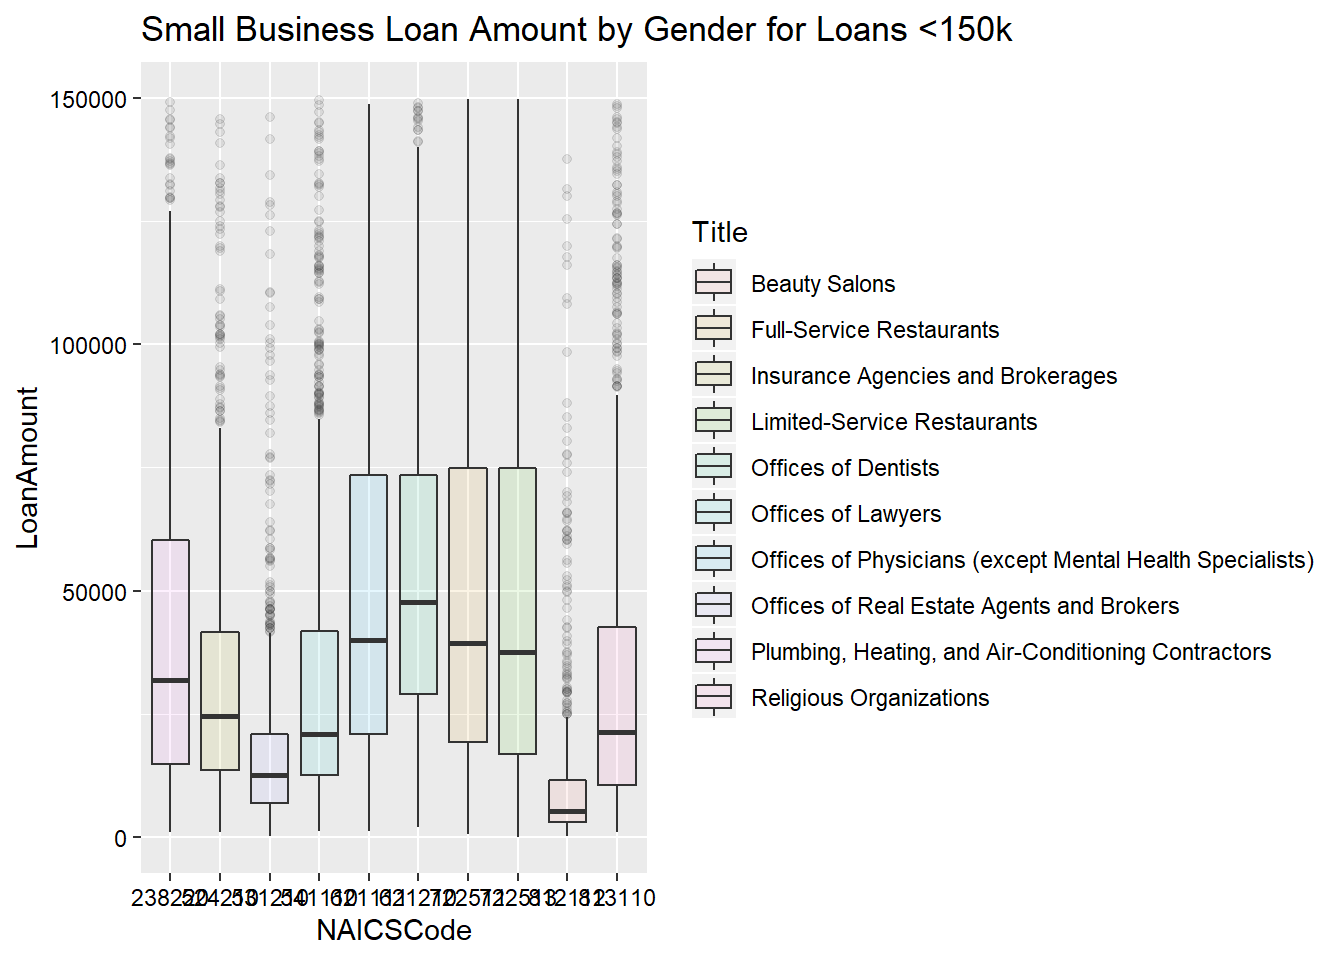
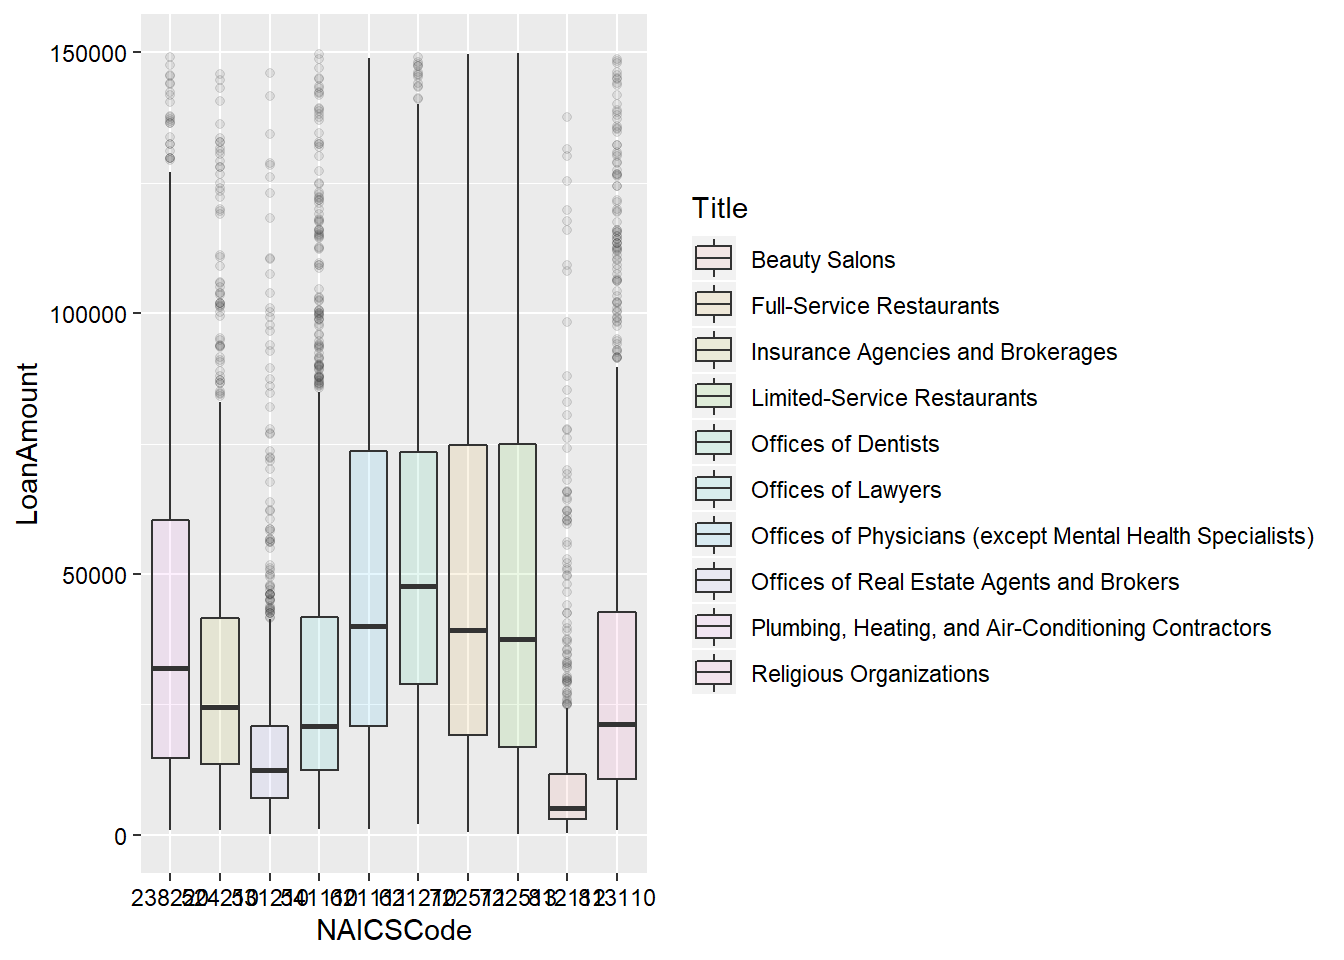
layla commit

diff --git a/docs/layla_file.html b/docs/layla_file.html
@@ -504,16 +504,16 @@ This reproducible <a href="http://rmarkdown.rstudio.com">R Markdown</a> analysis
 <div class="panel panel-default">
 <div class="panel-heading">
 <p class="panel-title">
-<a data-toggle="collapse" data-parent="#workflowr-checks" href="#strongRepositoryversionstrongahrefhttpsgithubcomhugheylabcodingsprinttree3f72bf6ce2a0150f29be0b434350445418727337targetblank3f72bf6a"> <span class="glyphicon glyphicon-ok text-success" aria-hidden="true"></span> <strong>Repository version:</strong> <a href="https://github.com/hugheylab/coding_sprint/tree/3f72bf6ce2a0150f29be0b434350445418727337" target="_blank">3f72bf6</a> </a>
+<a data-toggle="collapse" data-parent="#workflowr-checks" href="#strongRepositoryversionstrongahrefhttpsgithubcomhugheylabcodingsprinttree3fbf6541b7f9f4051e5e55187d5f494db42fde04targetblank3fbf654a"> <span class="glyphicon glyphicon-ok text-success" aria-hidden="true"></span> <strong>Repository version:</strong> <a href="https://github.com/hugheylab/coding_sprint/tree/3fbf6541b7f9f4051e5e55187d5f494db42fde04" target="_blank">3fbf654</a> </a>
 </p>
 </div>
[2 lines of base64/hex data omitted]
 <div class="panel-body">
 <p>
 Great! You are using Git for version control. Tracking code development and connecting the code version to the results is critical for reproducibility.
 </p>
 <p>
-The results in this page were generated with repository version <a href="https://github.com/hugheylab/coding_sprint/tree/3f72bf6ce2a0150f29be0b434350445418727337" target="_blank">3f72bf6</a>. See the <em>Past versions</em> tab to see a history of the changes made to the R Markdown and HTML files.
+The results in this page were generated with repository version <a href="https://github.com/hugheylab/coding_sprint/tree/3fbf6541b7f9f4051e5e55187d5f494db42fde04" target="_blank">3fbf654</a>. See the <em>Past versions</em> tab to see a history of the changes made to the R Markdown and HTML files.
 </p>
 <p>
 Note that you need to be careful to ensure that all relevant files for the analysis have been committed to Git prior to generating the results (you can use <code>wflow_publish</code> or <code>wflow_git_commit</code>). workflowr only checks the R Markdown file, but you know if there are other scripts or data files that it depends on. Below is the status of the Git repository when the results were generated:
@@ -521,7 +521,6 @@ Note that you need to be careful to ensure that all relevant files for the analy
 <pre><code>
 Ignored files:
     Ignored:    .Rproj.user/
-    Ignored:    analysis/figure/
     Ignored:    data/foia_150k_plus.csv
 
 Unstaged changes:
@@ -564,6 +563,40 @@ Message
 </tr>
 </thead>
 <tbody>
+<tr>
+<td>
+Rmd
+</td>
+<td>
+<a href="https://github.com/hugheylab/coding_sprint/blob/72fe9f035a6f7b14cae184d95a46369df9721b16/analysis/layla_file.Rmd" target="_blank">72fe9f0</a>
+</td>
+<td>
+arefnel
+</td>
+<td>
+2020-07-14
+</td>
+<td>
+laylas commit
+</td>
+</tr>
+<tr>
+<td>
+html
+</td>
+<td>
+<a href="https://rawcdn.githack.com/hugheylab/coding_sprint/72fe9f035a6f7b14cae184d95a46369df9721b16/docs/layla_file.html" target="_blank">72fe9f0</a>
+</td>
+<td>
+arefnel
+</td>
+<td>
+2020-07-14
+</td>
+<td>
+laylas commit
+</td>
+</tr>
 <tr>
 <td>
 Rmd
@@ -624,9 +657,9 @@ ky_f1 = ky[NAICSCode %in% top_biz]
 ky_f1 = merge(ky_f1, code_map, by.x=&#39;NAICSCode&#39;, by.y=&#39;Code&#39;, all.x = T)
 ky_f1 = ky_f1[, NAICSCode := as.character(NAICSCode)]
 
-ggplot(ky_f1, aes(x = NAICSCode, y = LoanAmount, fill = Title)) + geom_boxplot(alpha = 0.1) + theme(axis.text = element_text(color = &#39;black&#39;)) + labs(title = &#39;Small Business Loan Amount by Gender for Loans &lt;150k&#39;)</code></pre>
+ggplot(ky_f1, aes(x = NAICSCode, y = LoanAmount, fill = Title)) + geom_boxplot(alpha = 0.1) + theme(axis.text = element_text(color = &#39;black&#39;)) </code></pre>
 <p><img src="figure/layla_file.Rmd/unnamed-chunk-4-1.png" width="672" style="display: block; margin: auto;" /></p>
-<pre class="r"><code>ggplot(ky_f1, aes(x = NAICSCode, y = JobsRetained, fill = Title)) + geom_boxplot(alpha = 0.1) + theme(axis.text = element_text(color = &#39;black&#39;)) + labs(title = &#39;Small Business Loan Amount by Gender for Loans &lt;150k&#39;)</code></pre>
+<pre class="r"><code>ggplot(ky_f1, aes(x = NAICSCode, y = JobsRetained, fill = Title)) + geom_boxplot(alpha = 0.1) + theme(axis.text = element_text(color = &#39;black&#39;)) </code></pre>
 <pre><code>Warning: Removed 431 rows containing non-finite values (stat_boxplot).</code></pre>
 <p><img src="figure/layla_file.Rmd/unnamed-chunk-5-1.png" width="672" style="display: block; margin: auto;" /></p>
 <br>
